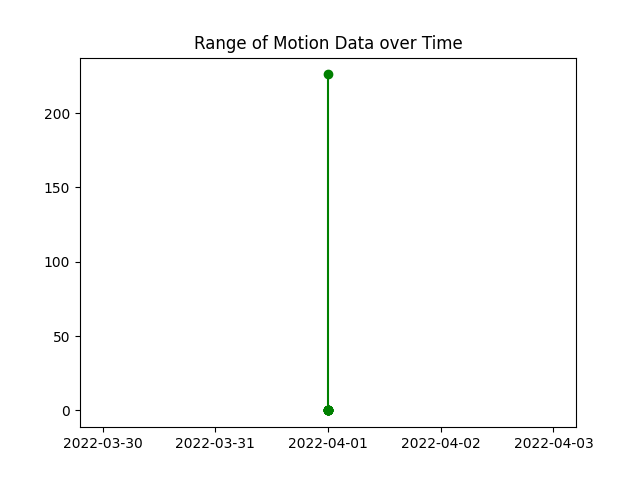
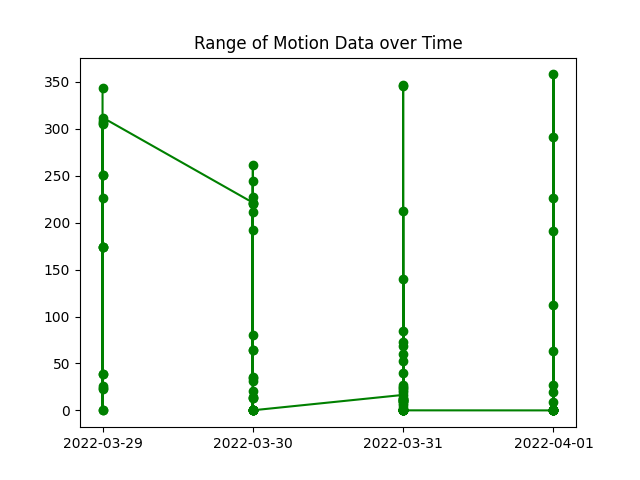
added in the rotation graph for exercise 2

diff --git a/GUI/data_analysis.py b/GUI/data_analysis.py
@@ -6,7 +6,8 @@ from drawnow import *  # import all of drawnow library
 from datetime import date
 import datetime
 
-def rom_analysis_exercise_one():
+
+def rom_analysis():
     plt.close()  # could maybe take out
 
     # getting maximum and minimum values and finding the difference
@@ -16,44 +17,82 @@ def rom_analysis_exercise_one():
     answer = str(round(global_var.rom, 2))
     global_var.rom_value_text = "{}".format(answer)
 
-    # choosing the correct phrase to output to the screen
-    if global_var.rom >= 90:
-        global_var.rom_phrase = "Congrats, you have FANTASTIC ROM"
-    elif global_var.rom >= 75:
-        global_var.rom_phrase = "You're almost there, you're doing AMAZING"
-    elif global_var.rom >= 45:
-        global_var.rom_phrase = "Keep going, you are more than halfway there!"
-    else:
-        global_var.rom_phrase = "You still have quite a ways to go, but I believe in you"
+    # choosing the correct phrase to output to the screen for reverse fly and side-lying rotation
+    # sheridan to separate into new line
+    if global_var.exercise_one:
+        if global_var.rom >= 90:
+            global_var.rom_phrase = "Congrats, you have FANTASTIC ROM"
+        elif global_var.rom >= 75:
+            global_var.rom_phrase = "You're almost there, you're doing AMAZING"
+        elif global_var.rom >= 45:
+            global_var.rom_phrase = "Keep going, you are more than halfway there!"
+        else:
+            global_var.rom_phrase = "You still have quite a ways to go, but I believe in you"
+    elif global_var.exercise_one:
+        if global_var.rom >= 180:
+            global_var.rom_phrase = "Congrats, you have FANTASTIC ROM"
+        elif global_var.rom >= 135:
+            global_var.rom_phrase = "You're almost there, you're doing AMAZING"
+        elif global_var.rom >= 90:
+            global_var.rom_phrase = "Keep going, you are more than halfway there!"
+        else:
+            global_var.rom_phrase = "You still have quite a ways to go, but I believe in you"
 
-    # have a counter that plots your data over time - or figure out how to plot without it
+    # sheridan to call in force function to do analysis and then write to data
+    avg_force_value = force_analysis()
 
-    # writing the value to a text file ** Sheridan needs to add date
+    # writing the force sensor data to a text file
+    with open('force_history.txt', 'a') as file:
+        force_text= "{},{}".format(avg_force_value, date.today())
+        file.write(force_text)
+        file.write("\n")
+        file.close
 
+    # writing the RM values to a text file
     if global_var.exercise_one:
         with open('reverse_fly_history.txt', 'a') as file:
             rom_text = "{},{}".format(global_var.rom, date.today())
             file.write(rom_text)
             file.write("\n")
+            file.close()
     else:
         with open('rotation_history.txt', 'a') as file:
             rom_text = "{},{}".format(global_var.rom, date.today())
             file.write(rom_text)
             file.write("\n")
+            file.close()
+
+    # saves graph for results page to read in
+    save_graph()
 
 
-    # printing to the screen to test splitting
-    rom_graph()
+def force_analysis():
+    # sorting the values in descending
+    sorted_force_data = sorted(global_var.force_data, reverse=True)
 
-def rom_graph():
+    total = 0
+    # take top five data points
+    for i in range(5):
+        total = sorted_force_data[i]
+
+    average = total/5
+
+    # print("this is the avg: force_data: ", str(round(average,2)))
+
+    return str(round(average, 2))
+
+
+
+def save_graph():
     # reading the text file
     value_data = []
     date_data = []
 
+    # reading the appropriate text file
     if global_var.exercise_one:
         my_file = open("reverse_fly_history.txt", "r")
     else:
-        my_file = open("rotation_history.txt","r")
+        my_file = open("rotation_history.txt", "r")
 
     content = my_file.read().splitlines()
 
@@ -90,4 +129,9 @@ def rom_graph():
     # plt.ylim(0, 360)
     plt.title("Range of Motion Data over Time")
 
-    plt.savefig('euler.png')
+    if global_var.exercise_one:
+        plt.savefig('euler_reverse.png')
+    else:
+        plt.savefig('euler_rotation.png')
+
+

diff --git a/GUI/exercise_one_pg.py b/GUI/exercise_one_pg.py
@@ -65,6 +65,8 @@ def plot_data():
             data[99] = float(data_array[0])
 
         global_var.euler_data.append(float(data_array[0]))
+        # force data
+        global_var.force_data.append(float(data_array[1]))
     
 
         lines.set_xdata(np.arange(start=0, stop=len(data),step=1))
@@ -113,7 +115,7 @@ b1 = Button(
     image = img1,
     borderwidth = 0,
     highlightthickness = 0,
-    command = lambda:[plot_end(), data_analysis.rom_analysis_exercise_one(),results(), btn_clicked()],
+    command = lambda:[plot_end(), data_analysis.rom_analysis(), results(), btn_clicked()],
     relief = "flat")
 
 b1.place(

diff --git a/GUI/exercise_two_pg.py b/GUI/exercise_two_pg.py
@@ -63,6 +63,8 @@ def plot_data():
             data[99] = float(data_array[0])
 
         global_var.euler_data.append(float(data_array[0]))
+        # force data
+        global_var.force_data.append(float(data_array[1]))
 
         lines.set_xdata(np.arange(start=0, stop=len(data),step=1))
         lines.set_ydata(data)
@@ -106,7 +108,7 @@ b1 = Button(
     image = img1,
     borderwidth = 0,
     highlightthickness = 0,
-    command = lambda:[plot_end(), data_analysis.rom_analysis_exercise_one(),results()],
+    command = lambda:[plot_end(), data_analysis.rom_analysis(), results()],
     relief = "flat")
 
 b1.place(

diff --git a/GUI/end_pg.py b/GUI/end_pg.py
@@ -45,7 +45,11 @@ b0.place(
     width = 175,
     height = 44)
 
-img = Image.open("euler.png")
+if global_var.exercise_one:
+    img = Image.open("euler_reverse.png")
+elif global_var.exercise_one == False:
+    img = Image.open("euler_rotation.png")
+
 img = img.resize((250,250), Image.ANTIALIAS)
 img = ImageTk.PhotoImage(img)
 label1 = Label(image=img)

diff --git a/GUI/global_var.py b/GUI/global_var.py
@@ -1,6 +1,8 @@
 euler_data = []
+force_data = []
 rom = 0
 rom_value_text = ""
+force_value_text=""
 exercise_one = True
 
 def set_exercise_one_off():
